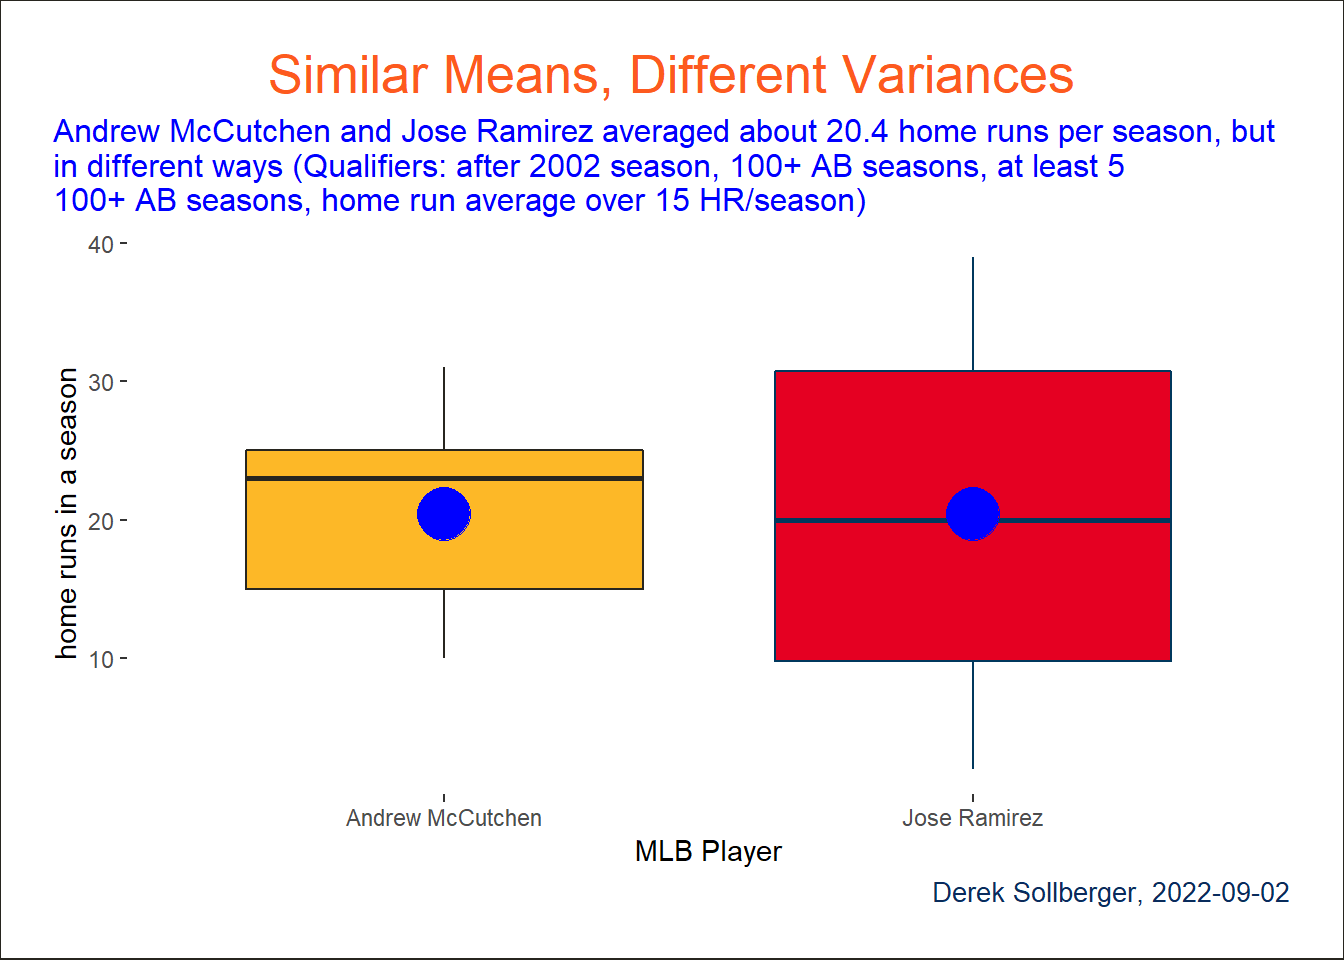
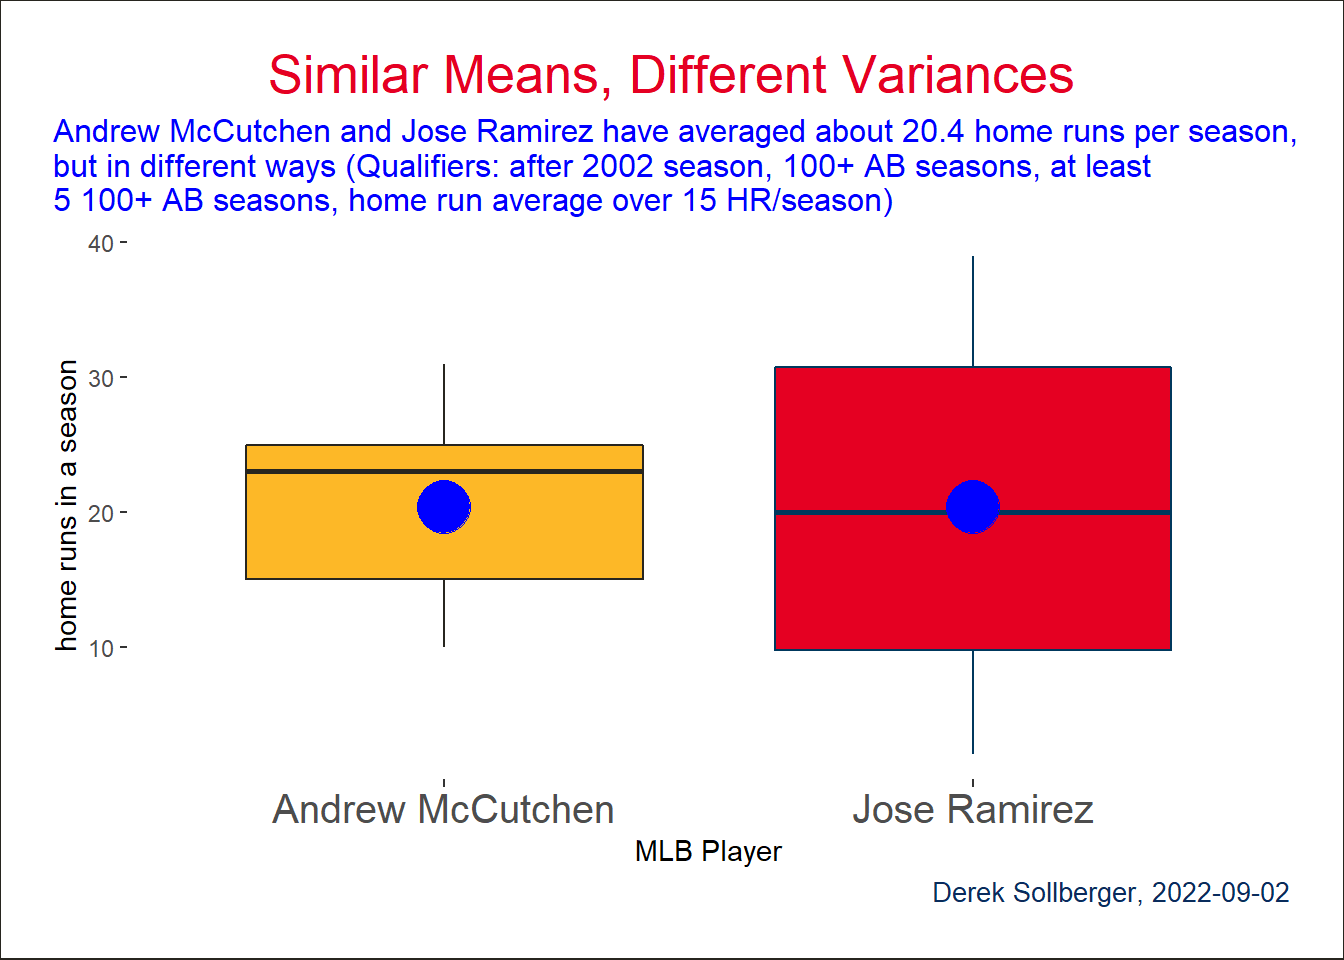
coefficient of variation
coefficient of variation

diff --git a/_site/posts/cofficient_of_variation/coefficient_of_variation.html b/_site/posts/cofficient_of_variation/coefficient_of_variation.html
@@ -442,26 +442,28 @@ code span.wa { color: #60a0b0; font-weight: bold; font-style: italic; } /* Warni
 <span id="cb28-6"><a href="#cb28-6" aria-hidden="true" tabindex="-1"></a>  <span class="fu">stat_summary</span>(<span class="at">fun=</span>mean, <span class="at">geom=</span><span class="st">"point"</span>, <span class="at">shape=</span><span class="dv">20</span>, <span class="at">size=</span><span class="dv">14</span>, <span class="at">color=</span><span class="st">"blue"</span>, <span class="at">fill=</span><span class="st">"blue"</span>) <span class="sc">+</span></span>
 <span id="cb28-7"><a href="#cb28-7" aria-hidden="true" tabindex="-1"></a>  <span class="fu">scale_x_discrete</span>(<span class="at">labels =</span> <span class="fu">c</span>(<span class="st">"Andrew McCutchen"</span>, <span class="st">"Jose Ramirez"</span>)) <span class="sc">+</span></span>
 <span id="cb28-8"><a href="#cb28-8" aria-hidden="true" tabindex="-1"></a>  <span class="fu">labs</span>(<span class="at">title =</span> <span class="st">"Similar Means, Different Variances"</span>,</span>
-<span id="cb28-9"><a href="#cb28-9" aria-hidden="true" tabindex="-1"></a>       <span class="at">subtitle =</span> stringr<span class="sc">::</span><span class="fu">str_wrap</span>(<span class="st">"Andrew McCutchen and Jose Ramirez averaged about 20.4 home runs per season, but in different ways (Qualifiers: after 2002 season, 100+ AB seasons, at least 5 100+ AB seasons, home run average over 15 HR/season)"</span>),</span>
+<span id="cb28-9"><a href="#cb28-9" aria-hidden="true" tabindex="-1"></a>       <span class="at">subtitle =</span> stringr<span class="sc">::</span><span class="fu">str_wrap</span>(<span class="st">"Andrew McCutchen and Jose Ramirez have averaged about 20.4 home runs per season, but in different ways (Qualifiers: after 2002 season, 100+ AB seasons, at least 5 100+ AB seasons, home run average over 15 HR/season)"</span>),</span>
 <span id="cb28-10"><a href="#cb28-10" aria-hidden="true" tabindex="-1"></a>       <span class="at">caption =</span> <span class="st">"Derek Sollberger, 2022-09-02"</span>,</span>
 <span id="cb28-11"><a href="#cb28-11" aria-hidden="true" tabindex="-1"></a>       <span class="at">x =</span> <span class="st">"MLB Player"</span>,</span>
 <span id="cb28-12"><a href="#cb28-12" aria-hidden="true" tabindex="-1"></a>       <span class="at">y =</span> <span class="st">"home runs in a season"</span>) <span class="sc">+</span></span>
-<span id="cb28-13"><a href="#cb28-13" aria-hidden="true" tabindex="-1"></a>  <span class="fu">theme</span>(<span class="at">legend.position =</span> <span class="st">"none"</span>,</span>
-<span id="cb28-14"><a href="#cb28-14" aria-hidden="true" tabindex="-1"></a>        <span class="at">panel.background =</span> <span class="fu">element_blank</span>(),</span>
-<span id="cb28-15"><a href="#cb28-15" aria-hidden="true" tabindex="-1"></a>        <span class="at">plot.background =</span> <span class="fu">element_rect</span>(</span>
-<span id="cb28-16"><a href="#cb28-16" aria-hidden="true" tabindex="-1"></a>            <span class="at">fill =</span> <span class="st">"#FFFFFF"</span>, </span>
-<span id="cb28-17"><a href="#cb28-17" aria-hidden="true" tabindex="-1"></a>            <span class="at">color =</span> <span class="st">"#27251F"</span></span>
-<span id="cb28-18"><a href="#cb28-18" aria-hidden="true" tabindex="-1"></a>        ),</span>
-<span id="cb28-19"><a href="#cb28-19" aria-hidden="true" tabindex="-1"></a>        <span class="at">plot.title =</span> <span class="fu">element_text</span>(<span class="at">color =</span> <span class="st">"#FD5A1E"</span>, <span class="at">size =</span> <span class="dv">20</span>, <span class="at">hjust =</span> <span class="fl">0.5</span>),</span>
-<span id="cb28-20"><a href="#cb28-20" aria-hidden="true" tabindex="-1"></a>        <span class="at">plot.title.position =</span> <span class="st">"plot"</span>,</span>
-<span id="cb28-21"><a href="#cb28-21" aria-hidden="true" tabindex="-1"></a>        <span class="at">plot.subtitle =</span> <span class="fu">element_text</span>(<span class="at">color =</span> <span class="st">"blue"</span>, <span class="at">size =</span> <span class="dv">12</span>, <span class="at">hjust =</span> <span class="fl">0.0</span>),</span>
-<span id="cb28-22"><a href="#cb28-22" aria-hidden="true" tabindex="-1"></a>        <span class="at">plot.caption =</span> <span class="fu">element_text</span>(<span class="at">color =</span> <span class="st">"#092C5C"</span>, <span class="at">size =</span> <span class="dv">10</span>, <span class="at">hjust =</span> <span class="fl">1.0</span>),</span>
-<span id="cb28-23"><a href="#cb28-23" aria-hidden="true" tabindex="-1"></a>        <span class="at">plot.caption.position =</span> <span class="st">"plot"</span>,</span>
-<span id="cb28-24"><a href="#cb28-24" aria-hidden="true" tabindex="-1"></a>        <span class="at">plot.margin =</span> <span class="fu">margin</span>(<span class="dv">20</span>, <span class="dv">20</span>, <span class="dv">20</span>, <span class="dv">20</span>))</span></code><button title="Copy to Clipboard" class="code-copy-button"><i class="bi"></i></button></pre></div>
+<span id="cb28-13"><a href="#cb28-13" aria-hidden="true" tabindex="-1"></a>  <span class="fu">theme</span>(<span class="at">axis.text.x =</span> <span class="fu">element_text</span>(<span class="at">size =</span> <span class="dv">15</span>),</span>
+<span id="cb28-14"><a href="#cb28-14" aria-hidden="true" tabindex="-1"></a>        <span class="at">legend.position =</span> <span class="st">"none"</span>,</span>
+<span id="cb28-15"><a href="#cb28-15" aria-hidden="true" tabindex="-1"></a>        <span class="at">panel.background =</span> <span class="fu">element_blank</span>(),</span>
+<span id="cb28-16"><a href="#cb28-16" aria-hidden="true" tabindex="-1"></a>        <span class="at">plot.background =</span> <span class="fu">element_rect</span>(</span>
+<span id="cb28-17"><a href="#cb28-17" aria-hidden="true" tabindex="-1"></a>            <span class="at">fill =</span> <span class="st">"#FFFFFF"</span>, </span>
+<span id="cb28-18"><a href="#cb28-18" aria-hidden="true" tabindex="-1"></a>            <span class="at">color =</span> <span class="st">"#27251F"</span></span>
+<span id="cb28-19"><a href="#cb28-19" aria-hidden="true" tabindex="-1"></a>        ),</span>
+<span id="cb28-20"><a href="#cb28-20" aria-hidden="true" tabindex="-1"></a>        <span class="at">plot.title =</span> <span class="fu">element_text</span>(<span class="at">color =</span> <span class="st">"#E50022"</span>, <span class="at">size =</span> <span class="dv">20</span>, <span class="at">hjust =</span> <span class="fl">0.5</span>),</span>
+<span id="cb28-21"><a href="#cb28-21" aria-hidden="true" tabindex="-1"></a>        <span class="at">plot.title.position =</span> <span class="st">"plot"</span>,</span>
+<span id="cb28-22"><a href="#cb28-22" aria-hidden="true" tabindex="-1"></a>        <span class="at">plot.subtitle =</span> <span class="fu">element_text</span>(<span class="at">color =</span> <span class="st">"blue"</span>, <span class="at">size =</span> <span class="dv">12</span>, <span class="at">hjust =</span> <span class="fl">0.0</span>),</span>
+<span id="cb28-23"><a href="#cb28-23" aria-hidden="true" tabindex="-1"></a>        <span class="at">plot.caption =</span> <span class="fu">element_text</span>(<span class="at">color =</span> <span class="st">"#092C5C"</span>, <span class="at">size =</span> <span class="dv">10</span>, <span class="at">hjust =</span> <span class="fl">1.0</span>),</span>
+<span id="cb28-24"><a href="#cb28-24" aria-hidden="true" tabindex="-1"></a>        <span class="at">plot.caption.position =</span> <span class="st">"plot"</span>,</span>
+<span id="cb28-25"><a href="#cb28-25" aria-hidden="true" tabindex="-1"></a>        <span class="at">plot.margin =</span> <span class="fu">margin</span>(<span class="dv">20</span>, <span class="dv">20</span>, <span class="dv">20</span>, <span class="dv">20</span>))</span></code><button title="Copy to Clipboard" class="code-copy-button"><i class="bi"></i></button></pre></div>
 <div class="cell-output-display">
 <p><img src="coefficient_of_variation_files/figure-html/unnamed-chunk-16-1.png" class="img-fluid" width="672"></p>
 </div>
 </div>
+<p><img src="Rplot.png" class="img-fluid"></p>
 
 
 </section>

diff --git a/_site/blog.html b/_site/blog.html
@@ -157,13 +157,9 @@ ul.task-list{list-style: none;}
 
 <div class="quarto-listing quarto-listing-container-default" id="listing-listing">
 <div class="list quarto-listing-default">
-<div class="quarto-post image-right" data-index="0" data-listing-date-sort="1662102000000" data-listing-file-modified-sort="1662165896573" data-listing-reading-time-sort="5.27">
+<div class="quarto-post image-right" data-index="0" data-listing-date-sort="1662102000000" data-listing-file-modified-sort="1662166046032" data-listing-reading-time-sort="5.27">
 <div class="thumbnail">
-<a href="./posts/cofficient_of_variation/coefficient_of_variation.html">
-<div class="thumbnail-image">
-
-</div>
-</a><p><a href="./posts/cofficient_of_variation/coefficient_of_variation.html"></a></p>
+<p><a href="./posts/cofficient_of_variation/coefficient_of_variation.html"> <img src="./posts/cofficient_of_variation/Rplot.png" class="thumnail-image"> </a></p>
 </div>
 <div class="body">
 <a href="./posts/cofficient_of_variation/coefficient_of_variation.html">
